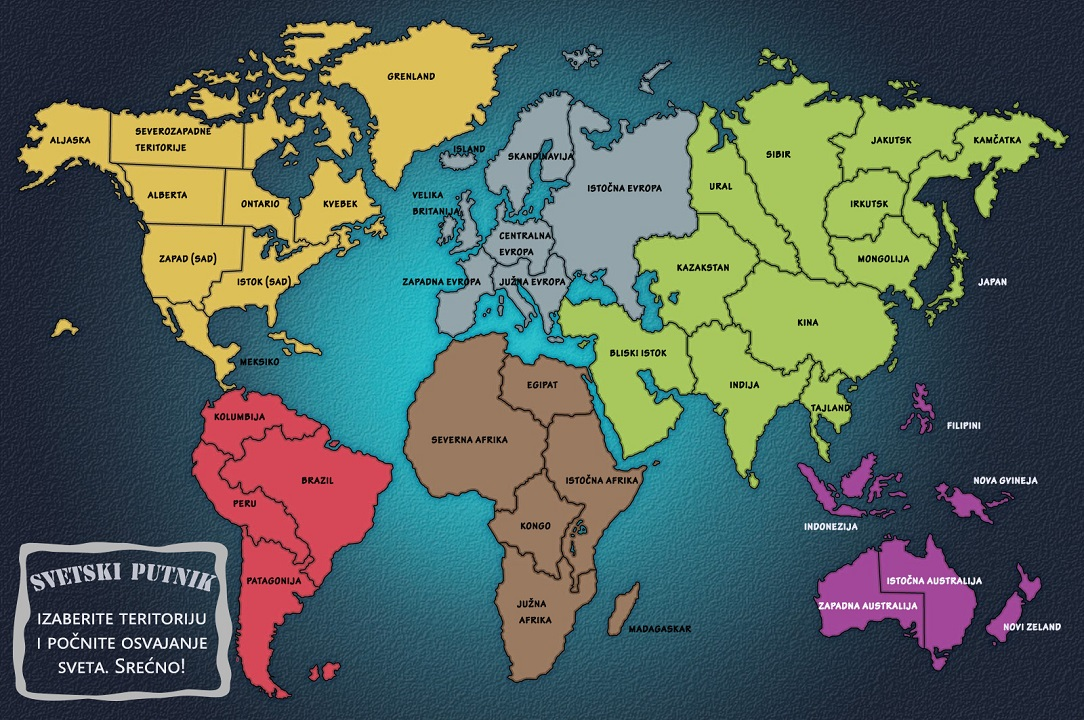
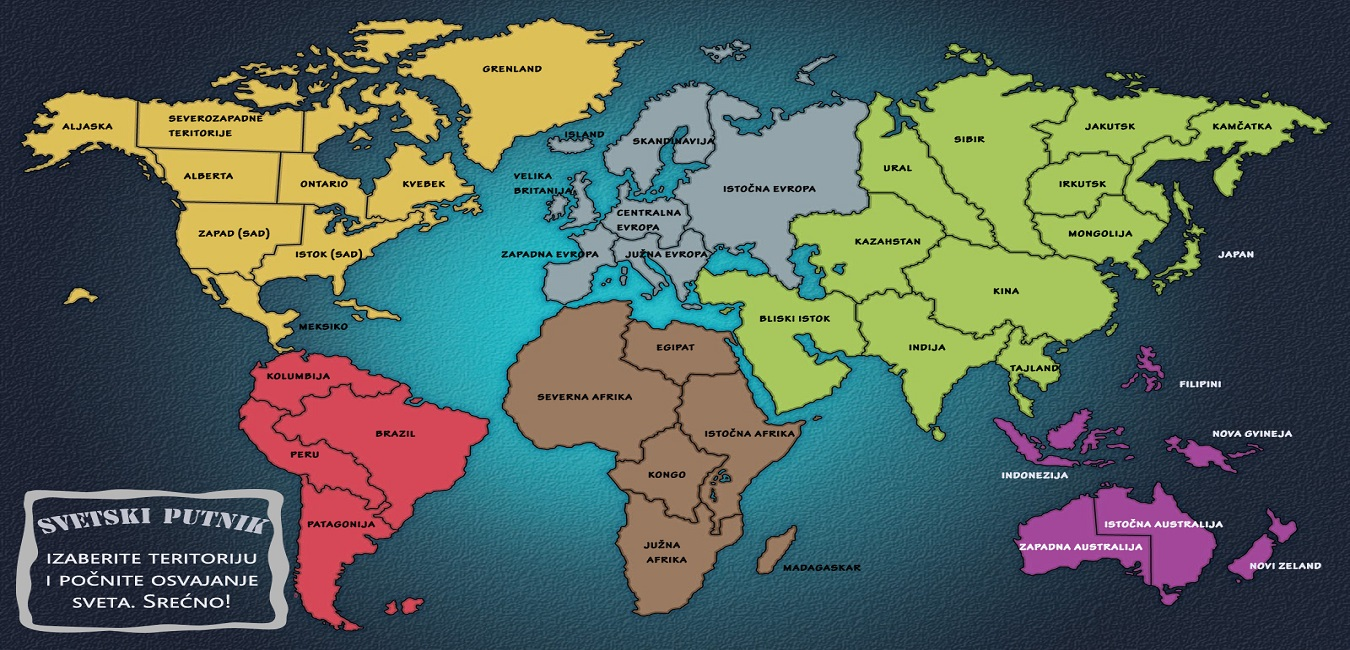
Prepravljeni nazivi area

diff --git a/source/application/views/Game.php b/source/application/views/Game.php
@@ -30,50 +30,50 @@
             <map name="Map" id="Map">
                 
                
-                 <area class="areaMap" id="safrika" data-target="#myModal" data-toggle="modal"alt="" title="Severna Afrika" href="#" shape="poly" coords="628,317,625,339,622,354,628,363,647,371,669,373,680,385,678,403,672,423,652,434,644,453,636,467,616,465,604,451,553,445,534,446,521,431,505,399,511,370,529,342,543,324,570,307,603,302,631,302" />
-                 <area class="areaMap" id="egipat" data-target="#myModal" data-toggle="modal"alt="" title="Egipat" href="#" shape="poly" coords="635,323,632,329,627,337,627,352,631,361,649,369,664,369,674,374,679,384,685,382,701,374,735,369,733,342,723,332,672,322" />
-                 <area class="areaMap" id="kongo" data-target="#myModal" data-toggle="modal"alt="" title="Kongo" href="#" shape="poly" coords="676,428,667,434,652,437,648,453,641,466,632,469,616,468,610,474,625,492,644,497,662,500,668,513,683,520,698,522,699,501,707,472,706,453,715,457,722,455,718,466,711,471,708,473" />
-                 <area class="areaMap" id="istafrika" data-target="#myModal" data-toggle="modal"alt="" title="Istočna Afrika" href="#" shape="poly" coords="692,380,685,390,683,407,683,426,694,435,701,443,711,450,723,455,729,459,718,470,707,483,707,501,711,512,714,524,726,516,747,514,748,481,777,465,792,453,796,425,740,374" />
-                 <area class="areaMap" id="jafrika" data-target="#myModal" data-toggle="modal"alt="" title="Južna Afrika" href="#" shape="poly" coords="628,499,627,513,619,540,628,580,634,612,670,608,692,593,705,566,731,540,738,523" />
-                 <area class="areaMap" id="madagaskar" data-target="#myModal" data-toggle="modal"alt="" title="Madagaskar" href="#" shape="poly" coords="793,529,779,538,768,539,766,556,761,567,766,576,782,551,792,542" />
-                 <area class="areaMap" id="blickiistok" data-target="#myModal" data-toggle="modal"alt="" title="Bliski istok" href="#" shape="poly" coords="702,268,696,285,703,307,728,304,746,302,738,324,736,330,744,358,757,377,780,414,817,400,848,369,859,357,864,343,858,325,857,307,835,296,769,277" />
-                 <area class="areaMap" id="indija" data-target="#myModal" data-toggle="modal"alt="" title="Indija" href="#" shape="poly" coords="998,327,985,337,964,334,943,327,929,319,933,303,915,296,882,294,858,306,860,326,865,343,866,355,881,358,895,367,901,374,905,393,918,418,923,428,988,366,999,360,1009,330,1012,326" />
-                 <area class="areaMap" id="kazakstan" data-target="#myModal" data-toggle="modal"alt="" title="Kazakstan" href="#" shape="poly" coords="869,191,886,194,902,200,931,222,942,236,933,250,924,262,901,271,911,291,900,299,886,290,861,302,843,297,826,293,818,270,815,254,798,247,789,230,810,216" />
-                 <area class="areaMap" id="kina" data-target="#myModal" data-toggle="modal"alt="" title="Kina" href="#" shape="poly" coords="950,238,933,249,924,262,902,270,913,294,931,300,930,316,946,327,979,337,1001,324,1016,328,1025,335,1025,344,1041,337,1058,339,1078,338,1108,321,1118,304,1104,283,1095,266,1072,255" />
-                 <area class="areaMap" id="tajland" data-target="#myModal" data-toggle="modal"alt="" title="Tajland" href="#" shape="poly" coords="1016,327,1027,343,1035,342,1052,338,1045,352,1060,370,1047,384,1032,413,1015,392,1008,376,996,362" />
-                 <area class="areaMap" id="ural" data-target="#myModal" data-toggle="modal"alt="" title="Ural" href="#" shape="poly" coords="879,96,871,110,858,127,858,153,863,181,877,194,894,191,922,210,944,231,965,239,998,248,982,212" />
-                 <area class="areaMap" id="sibir" data-target="#myModal" data-toggle="modal"alt="" title="Sibir" href="#" shape="poly" coords="902,105,914,129,925,141,942,174,964,197,982,210,995,243,1057,255,1031,206,1029,178,1051,159,1033,121,1059,122,1074,109,1072,95,1040,89,1024,79,990,68,961,50" />
-                 <area class="areaMap" id="jakutsk" data-target="#myModal" data-toggle="modal"alt="" title="Jakutsk" href="#" shape="poly" coords="1071,92,1069,111,1063,122,1036,125,1048,135,1046,148,1052,166,1076,156,1106,153,1125,163,1138,157,1161,139,1183,144,1196,136,1189,123,1209,113,1211,100,1119,77" />
-                 <area class="areaMap" id="irkutsk" data-target="#myModal" data-toggle="modal"alt="" title="Irkutsk" href="#" shape="poly" coords="1126,165,1100,156,1080,157,1061,165,1037,172,1029,183,1026,205,1045,214,1078,215,1092,217,1119,194" />
-                 <area class="areaMap" id="mongolija" data-target="#myModal" data-toggle="modal"alt="" title="Mongolija" href="#" shape="poly" coords="1125,195,1103,195,1099,208,1086,218,1051,217,1034,214,1036,232,1051,251,1095,259,1119,261,1145,280,1153,241,1165,225" />
-                 <area class="areaMap" id="japan" data-target="#myModal" data-toggle="modal"alt="" title="Japan" href="#" shape="poly" coords="1176,191,1188,223,1186,243,1182,262,1166,270,1160,294,1184,275,1199,271,1201,235" />
-                 <area class="areaMap" id="kamcatka" data-target="#myModal" data-toggle="modal"alt="" title="Kamčatka" href="#" shape="poly" coords="1162,188,1167,220,1141,210,1124,196,1131,172,1149,151,1169,142,1190,144,1193,120,1218,110,1255,107,1301,108,1319,123,1237,167,1232,198" />
-                 <area class="areaMap" id="filipini" data-target="#myModal" data-toggle="modal"alt="" title="Filipini" href="#" shape="poly" coords="1148,346,1133,380,1128,387,1153,388,1162,377" />
-                 <area class="areaMap" id="indonezija" data-target="#myModal" data-toggle="modal"alt="" title="Indonezija" href="#" shape="poly" coords="995,421,1023,457,1076,465,1110,463,1130,458,1121,432,1086,412" />
-                 <area class="areaMap" id="ngvineja" data-target="#myModal" data-toggle="modal"alt="" title="Nova Gvineja" href="#" shape="poly" coords="1165,439,1200,466,1233,468,1260,447" />
-                 <area class="areaMap" id="istaustralija" data-target="#myModal" data-toggle="modal"alt="" title="Istočna Australija" href="#" shape="poly" coords="1093,499,1101,537,1149,534,1150,589,1174,604,1197,580,1213,547,1207,535,1164,497,1112,488,1160,488,1172,499,1105,489" />
-                 <area class="areaMap" id="zapaustralija" data-target="#myModal" data-toggle="modal"alt="" title="Zapadna Australija" href="#" shape="poly" coords="1092,498,1099,536,1152,541,1152,585,1086,566,1052,571,1025,570,1017,541,1025,525" />
-                 <area class="areaMap" id="nzeland" data-target="#myModal" data-toggle="modal"alt="" title="Novi Zeland" href="#" shape="poly" coords="1270,514,1252,551,1230,570,1254,584,1275,554,1299,526" />
-                 <area class="areaMap" id="brazil" data-target="#myModal" data-toggle="modal"alt="" title="Brazil" href="#" shape="poly" coords="404,385,383,393,353,397,346,388,326,399,301,396,301,414,279,420,281,440,298,442,325,441,341,454,368,469,378,489,393,508,382,520,393,530,413,515,443,489,465,467,476,446,491,420" />
-                 <area class="areaMap" id="kolumbija" data-target="#myModal" data-toggle="modal"alt="" title="Kolumbija" href="#" shape="poly" coords="315,397,301,398,302,416,276,409,258,398,254,383,262,371,282,358,299,355,320,360,337,360,356,365,377,375,396,383,372,396" />
-                 <area class="areaMap" id="peru" data-target="#myModal" data-toggle="modal"alt="" title="Peru" href="#" shape="poly" coords="276,434,289,446,317,443,342,453,363,465,377,486,379,501,370,505,329,491,296,475,274,462,257,444,239,420,253,401,274,409,288,416" />
-                 <area class="areaMap" id="patagonija" data-target="#myModal" data-toggle="modal"alt="" title="Patagonija" href="#" shape="poly" coords="394,534,372,516,360,499,333,490,316,488,300,482,297,558,297,592,324,621,355,628" />
-                 <area class="areaMap" id="kvebek" data-target="#myModal" data-toggle="modal"alt="" title="Kvebek" href="#" shape="poly" coords="369,214,396,215,430,216,440,225,486,213,476,189,454,160,391,141" />
-                 <area class="areaMap" id="ontario" data-target="#myModal" data-toggle="modal"alt="" title="Ontario" href="#" shape="poly" coords="279,155,314,158,360,190,366,222,279,207" />
-                 <area class="areaMap" id="grenland" data-target="#myModal" data-toggle="modal"alt="" title="Grenland" href="#" shape="poly" coords="492,172,558,126,601,110,628,41,550,25,462,28,396,24,383,44,371,34,355,30,354,34,350,35,342,45" />
-                 <area class="areaMap" id="sevzap" data-target="#myModal" data-toggle="modal"alt="" title="Severozapadne teritorije" href="#" shape="poly" coords="136,104,140,147,306,149,419,141,383,97,353,45,261,65" />
-                 <area class="areaMap" id="aljaska" data-target="#myModal" data-toggle="modal"alt="" title="Aljaska" href="#" shape="poly" coords="135,103,69,96,40,101,31,127,29,145,31,174,121,149,155,160,162,182,147,169" />
-                 <area class="areaMap" id="alberta" data-target="#myModal" data-toggle="modal"alt="" title="Alberta" href="#" shape="poly" coords="152,147,278,153,275,201,174,201" />
-                 <area class="areaMap" id="zapad" data-target="#myModal" data-toggle="modal"alt="" title="Zapad (SAD)" href="#" shape="poly" coords="181,204,309,205,299,244,253,284,192,270,178,237" />
-                 <area class="areaMap" id="istok" data-target="#myModal" data-toggle="modal"alt="" title="Istok (SAD)" href="#" shape="poly" coords="306,209,349,228,415,218,387,240,365,258,348,300,333,295,300,276,263,285,251,273" />
-                 <area class="areaMap" id="meksiko" data-target="#myModal" data-toggle="modal"alt="" title="Meksiko" href="#" shape="poly" coords="194,273,257,291,399,320,283,358" />
-                 <area class="areaMap" id="skandinavija" data-target="#myModal" data-toggle="modal"alt="" title="Skandinavija" href="#" shape="poly" coords="709,104,713,123,715,144,710,161,678,164,690,130,668,137,653,186,640,192,627,175,607,152,644,115,663,97,689,86,709,93" />
-                 <area class="areaMap" id="istevropa" data-target="#myModal" data-toggle="modal"alt="" title="Istočna Evropa" href="#" shape="poly" coords="761,108,716,92,706,110,714,154,699,172,680,184,683,203,688,225,703,237,713,249,759,253,766,273,797,284,793,220,826,215,865,212,866,187,856,159,860,127,865,114,843,104" />
-                 <area class="areaMap" id="island" data-target="#myModal" data-toggle="modal"alt="" title="Island" href="#" shape="poly" coords="549,137,550,148,586,151,590,146,591,142" />
-                 <area class="areaMap" id="vb" data-target="#myModal" data-toggle="modal"alt="" title="Velika Britanija" href="#" shape="poly" coords="587,178,594,222,570,230,545,220,554,192,570,177" />
-                 <area class="areaMap" id="centevropa" data-target="#myModal" data-toggle="modal"alt="" title="Centralna Evropa" href="#" shape="poly" coords="624,185,639,203,671,197,685,210,685,227,677,239,661,247,646,234,634,244,616,240,601,223" />
-                 <area class="areaMap" id="juzevropa" data-target="#myModal" data-toggle="modal"alt="" title="Južna Evropa" href="#" shape="poly" coords="647,235,657,235,662,248,682,241,690,228,699,237,708,256,697,276,691,290,694,310,664,285,654,299,638,276,619,261,613,246,615,238" /> 
-                  <area class="areaMap" id="zapevropa" data-target="#myModal" data-toggle="modal"alt="" title="Zapadna Evropa" href="#" shape="poly" coords="604,226,616,240,614,261,596,270,588,293,567,303,540,297,547,281,550,263,571,240" />
+                 <area class="areaMap" id="Severna Afrika" data-target="#myModal" data-toggle="modal"alt="" title="Severna Afrika" href="#" shape="poly" coords="628,317,625,339,622,354,628,363,647,371,669,373,680,385,678,403,672,423,652,434,644,453,636,467,616,465,604,451,553,445,534,446,521,431,505,399,511,370,529,342,543,324,570,307,603,302,631,302" />
+                 <area class="areaMap" id="Egipat" data-target="#myModal" data-toggle="modal"alt="" title="Egipat" href="#" shape="poly" coords="635,323,632,329,627,337,627,352,631,361,649,369,664,369,674,374,679,384,685,382,701,374,735,369,733,342,723,332,672,322" />
+                 <area class="areaMap" id="Kongo" data-target="#myModal" data-toggle="modal"alt="" title="Kongo" href="#" shape="poly" coords="676,428,667,434,652,437,648,453,641,466,632,469,616,468,610,474,625,492,644,497,662,500,668,513,683,520,698,522,699,501,707,472,706,453,715,457,722,455,718,466,711,471,708,473" />
+                 <area class="areaMap" id="Istočna Afrika" data-target="#myModal" data-toggle="modal"alt="" title="Istočna Afrika" href="#" shape="poly" coords="692,380,685,390,683,407,683,426,694,435,701,443,711,450,723,455,729,459,718,470,707,483,707,501,711,512,714,524,726,516,747,514,748,481,777,465,792,453,796,425,740,374" />
+                 <area class="areaMap" id="Južna Afrika" data-target="#myModal" data-toggle="modal"alt="" title="Južna Afrika" href="#" shape="poly" coords="628,499,627,513,619,540,628,580,634,612,670,608,692,593,705,566,731,540,738,523" />
+                 <area class="areaMap" id="Madagaskar" data-target="#myModal" data-toggle="modal"alt="" title="Madagaskar" href="#" shape="poly" coords="793,529,779,538,768,539,766,556,761,567,766,576,782,551,792,542" />
+                 <area class="areaMap" id="Bliski Istok" data-target="#myModal" data-toggle="modal"alt="" title="Bliski istok" href="#" shape="poly" coords="702,268,696,285,703,307,728,304,746,302,738,324,736,330,744,358,757,377,780,414,817,400,848,369,859,357,864,343,858,325,857,307,835,296,769,277" />
+                 <area class="areaMap" id="Indija" data-target="#myModal" data-toggle="modal"alt="" title="Indija" href="#" shape="poly" coords="998,327,985,337,964,334,943,327,929,319,933,303,915,296,882,294,858,306,860,326,865,343,866,355,881,358,895,367,901,374,905,393,918,418,923,428,988,366,999,360,1009,330,1012,326" />
+                 <area class="areaMap" id="Kazahstan" data-target="#myModal" data-toggle="modal"alt="" title="Kazahstan" href="#" shape="poly" coords="869,191,886,194,902,200,931,222,942,236,933,250,924,262,901,271,911,291,900,299,886,290,861,302,843,297,826,293,818,270,815,254,798,247,789,230,810,216" />
+                 <area class="areaMap" id="Kina" data-target="#myModal" data-toggle="modal"alt="" title="Kina" href="#" shape="poly" coords="950,238,933,249,924,262,902,270,913,294,931,300,930,316,946,327,979,337,1001,324,1016,328,1025,335,1025,344,1041,337,1058,339,1078,338,1108,321,1118,304,1104,283,1095,266,1072,255" />
+                 <area class="areaMap" id="Tajland" data-target="#myModal" data-toggle="modal"alt="" title="Tajland" href="#" shape="poly" coords="1016,327,1027,343,1035,342,1052,338,1045,352,1060,370,1047,384,1032,413,1015,392,1008,376,996,362" />
+                 <area class="areaMap" id="Ural" data-target="#myModal" data-toggle="modal"alt="" title="Ural" href="#" shape="poly" coords="879,96,871,110,858,127,858,153,863,181,877,194,894,191,922,210,944,231,965,239,998,248,982,212" />
+                 <area class="areaMap" id="Sibir" data-target="#myModal" data-toggle="modal"alt="" title="Sibir" href="#" shape="poly" coords="902,105,914,129,925,141,942,174,964,197,982,210,995,243,1057,255,1031,206,1029,178,1051,159,1033,121,1059,122,1074,109,1072,95,1040,89,1024,79,990,68,961,50" />
+                 <area class="areaMap" id="Jakutsk" data-target="#myModal" data-toggle="modal"alt="" title="Jakutsk" href="#" shape="poly" coords="1071,92,1069,111,1063,122,1036,125,1048,135,1046,148,1052,166,1076,156,1106,153,1125,163,1138,157,1161,139,1183,144,1196,136,1189,123,1209,113,1211,100,1119,77" />
+                 <area class="areaMap" id="Irkutsk" data-target="#myModal" data-toggle="modal"alt="" title="Irkutsk" href="#" shape="poly" coords="1126,165,1100,156,1080,157,1061,165,1037,172,1029,183,1026,205,1045,214,1078,215,1092,217,1119,194" />
+                 <area class="areaMap" id="Mongolija" data-target="#myModal" data-toggle="modal"alt="" title="Mongolija" href="#" shape="poly" coords="1125,195,1103,195,1099,208,1086,218,1051,217,1034,214,1036,232,1051,251,1095,259,1119,261,1145,280,1153,241,1165,225" />
+                 <area class="areaMap" id="Japan" data-target="#myModal" data-toggle="modal"alt="" title="Japan" href="#" shape="poly" coords="1176,191,1188,223,1186,243,1182,262,1166,270,1160,294,1184,275,1199,271,1201,235" />
+                 <area class="areaMap" id="Kamčatka" data-target="#myModal" data-toggle="modal"alt="" title="Kamčatka" href="#" shape="poly" coords="1162,188,1167,220,1141,210,1124,196,1131,172,1149,151,1169,142,1190,144,1193,120,1218,110,1255,107,1301,108,1319,123,1237,167,1232,198" />
+                 <area class="areaMap" id="Filipini" data-target="#myModal" data-toggle="modal"alt="" title="Filipini" href="#" shape="poly" coords="1148,346,1133,380,1128,387,1153,388,1162,377" />
+                 <area class="areaMap" id="Indonezija" data-target="#myModal" data-toggle="modal"alt="" title="Indonezija" href="#" shape="poly" coords="995,421,1023,457,1076,465,1110,463,1130,458,1121,432,1086,412" />
+                 <area class="areaMap" id="Nova Gvineja" data-target="#myModal" data-toggle="modal"alt="" title="Nova Gvineja" href="#" shape="poly" coords="1165,439,1200,466,1233,468,1260,447" />
+                 <area class="areaMap" id="Istočna Australija" data-target="#myModal" data-toggle="modal"alt="" title="Istočna Australija" href="#" shape="poly" coords="1093,499,1101,537,1149,534,1150,589,1174,604,1197,580,1213,547,1207,535,1164,497,1112,488,1160,488,1172,499,1105,489" />
+                 <area class="areaMap" id="Zapadna Australija" data-target="#myModal" data-toggle="modal"alt="" title="Zapadna Australija" href="#" shape="poly" coords="1092,498,1099,536,1152,541,1152,585,1086,566,1052,571,1025,570,1017,541,1025,525" />
+                 <area class="areaMap" id="Novi Zeland" data-target="#myModal" data-toggle="modal"alt="" title="Novi Zeland" href="#" shape="poly" coords="1270,514,1252,551,1230,570,1254,584,1275,554,1299,526" />
+                 <area class="areaMap" id="Brazil" data-target="#myModal" data-toggle="modal"alt="" title="Brazil" href="#" shape="poly" coords="404,385,383,393,353,397,346,388,326,399,301,396,301,414,279,420,281,440,298,442,325,441,341,454,368,469,378,489,393,508,382,520,393,530,413,515,443,489,465,467,476,446,491,420" />
+                 <area class="areaMap" id="Kolumbija" data-target="#myModal" data-toggle="modal"alt="" title="Kolumbija" href="#" shape="poly" coords="315,397,301,398,302,416,276,409,258,398,254,383,262,371,282,358,299,355,320,360,337,360,356,365,377,375,396,383,372,396" />
+                 <area class="areaMap" id="Peru" data-target="#myModal" data-toggle="modal"alt="" title="Peru" href="#" shape="poly" coords="276,434,289,446,317,443,342,453,363,465,377,486,379,501,370,505,329,491,296,475,274,462,257,444,239,420,253,401,274,409,288,416" />
+                 <area class="areaMap" id="Patagonija" data-target="#myModal" data-toggle="modal"alt="" title="Patagonija" href="#" shape="poly" coords="394,534,372,516,360,499,333,490,316,488,300,482,297,558,297,592,324,621,355,628" />
+                 <area class="areaMap" id="Kvebek" data-target="#myModal" data-toggle="modal"alt="" title="Kvebek" href="#" shape="poly" coords="369,214,396,215,430,216,440,225,486,213,476,189,454,160,391,141" />
+                 <area class="areaMap" id="Ontario" data-target="#myModal" data-toggle="modal"alt="" title="Ontario" href="#" shape="poly" coords="279,155,314,158,360,190,366,222,279,207" />
+                 <area class="areaMap" id="Grenland" data-target="#myModal" data-toggle="modal"alt="" title="Grenland" href="#" shape="poly" coords="492,172,558,126,601,110,628,41,550,25,462,28,396,24,383,44,371,34,355,30,354,34,350,35,342,45" />
+                 <area class="areaMap" id="Severozapadne teritorije" data-target="#myModal" data-toggle="modal"alt="" title="Severozapadne teritorije" href="#" shape="poly" coords="136,104,140,147,306,149,419,141,383,97,353,45,261,65" />
+                 <area class="areaMap" id="Aljaska" data-target="#myModal" data-toggle="modal"alt="" title="Aljaska" href="#" shape="poly" coords="135,103,69,96,40,101,31,127,29,145,31,174,121,149,155,160,162,182,147,169" />
+                 <area class="areaMap" id="Alberta" data-target="#myModal" data-toggle="modal"alt="" title="Alberta" href="#" shape="poly" coords="152,147,278,153,275,201,174,201" />
+                 <area class="areaMap" id="Zapad-SAD" data-target="#myModal" data-toggle="modal"alt="" title="Zapad (SAD)" href="#" shape="poly" coords="181,204,309,205,299,244,253,284,192,270,178,237" />
+                 <area class="areaMap" id="Istok-SAD" data-target="#myModal" data-toggle="modal"alt="" title="Istok (SAD)" href="#" shape="poly" coords="306,209,349,228,415,218,387,240,365,258,348,300,333,295,300,276,263,285,251,273" />
+                 <area class="areaMap" id="Meksiko" data-target="#myModal" data-toggle="modal"alt="" title="Meksiko" href="#" shape="poly" coords="194,273,257,291,399,320,283,358" />
+                 <area class="areaMap" id="Skandinavija" data-target="#myModal" data-toggle="modal"alt="" title="Skandinavija" href="#" shape="poly" coords="709,104,713,123,715,144,710,161,678,164,690,130,668,137,653,186,640,192,627,175,607,152,644,115,663,97,689,86,709,93" />
+                 <area class="areaMap" id="Istočna Evropa" data-target="#myModal" data-toggle="modal"alt="" title="Istočna Evropa" href="#" shape="poly" coords="761,108,716,92,706,110,714,154,699,172,680,184,683,203,688,225,703,237,713,249,759,253,766,273,797,284,793,220,826,215,865,212,866,187,856,159,860,127,865,114,843,104" />
+                 <area class="areaMap" id="Island" data-target="#myModal" data-toggle="modal"alt="" title="Island" href="#" shape="poly" coords="549,137,550,148,586,151,590,146,591,142" />
+                 <area class="areaMap" id="Velika Britanija" data-target="#myModal" data-toggle="modal"alt="" title="Velika Britanija" href="#" shape="poly" coords="587,178,594,222,570,230,545,220,554,192,570,177" />
+                 <area class="areaMap" id="Centralna Evropa" data-target="#myModal" data-toggle="modal"alt="" title="Centralna Evropa" href="#" shape="poly" coords="624,185,639,203,671,197,685,210,685,227,677,239,661,247,646,234,634,244,616,240,601,223" />
+                 <area class="areaMap" id="Južna Evropa" data-target="#myModal" data-toggle="modal"alt="" title="Južna Evropa" href="#" shape="poly" coords="647,235,657,235,662,248,682,241,690,228,699,237,708,256,697,276,691,290,694,310,664,285,654,299,638,276,619,261,613,246,615,238" /> 
+                  <area class="areaMap" id="Zapadna Evropa" data-target="#myModal" data-toggle="modal"alt="" title="Zapadna Evropa" href="#" shape="poly" coords="604,226,616,240,614,261,596,270,588,293,567,303,540,297,547,281,550,263,571,240" />
             </map>
         </div>
 

diff --git a/source/application/controllers/Main.php b/source/application/controllers/Main.php
@@ -20,6 +20,7 @@ class Main extends BaseController {
          //$this->Redirect(['view'=>'Game']);
         //$this->Redirect(['view'=>'LevelChoice']);
        //$this->Redirect(['view'=>'GameChoice']);
+        // $this->Redirect(['view'=>'Administrator']);
         
      
     }
